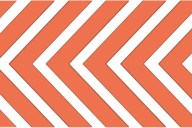
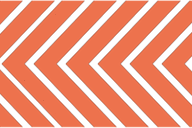
Left conveyer belt nailed

diff --git a/tactics_project/src/com/marklynch/objects/inanimateobjects/ConveyerBelt.java b/tactics_project/src/com/marklynch/objects/inanimateobjects/ConveyerBelt.java
@@ -62,9 +62,9 @@ public class ConveyerBelt extends GameObject implements OnCompletionListener {
 		if (conveyorBelt.direction == Direction.LEFT) {
 			conveyorBelt.connectedSquare = conveyorBelt.squareGameObjectIsOn.getSquareToLeftOf();
 			conveyorBelt.imageTexture = textureLeft;
-			width = 192;
-			halfWidth = 192 / 2;
-			widthRatio = 1.5f;
+			conveyorBelt.width = 192;
+			conveyorBelt.halfWidth = 192 / 2;
+			conveyorBelt.widthRatio = 1.5f;
 		} else if (conveyorBelt.direction == Direction.RIGHT) {
 			conveyorBelt.connectedSquare = conveyorBelt.squareGameObjectIsOn.getSquareToRightOf();
 			conveyorBelt.imageTexture = textureRight;
@@ -94,7 +94,7 @@ public class ConveyerBelt extends GameObject implements OnCompletionListener {
 		if (!shouldDraw())
 			return false;
 
-		offset -= Game.delta / 1000f;
+		offset -= Game.delta / 128f;
 		if (offset <= maxOffset)
 			offset = 0;
 
